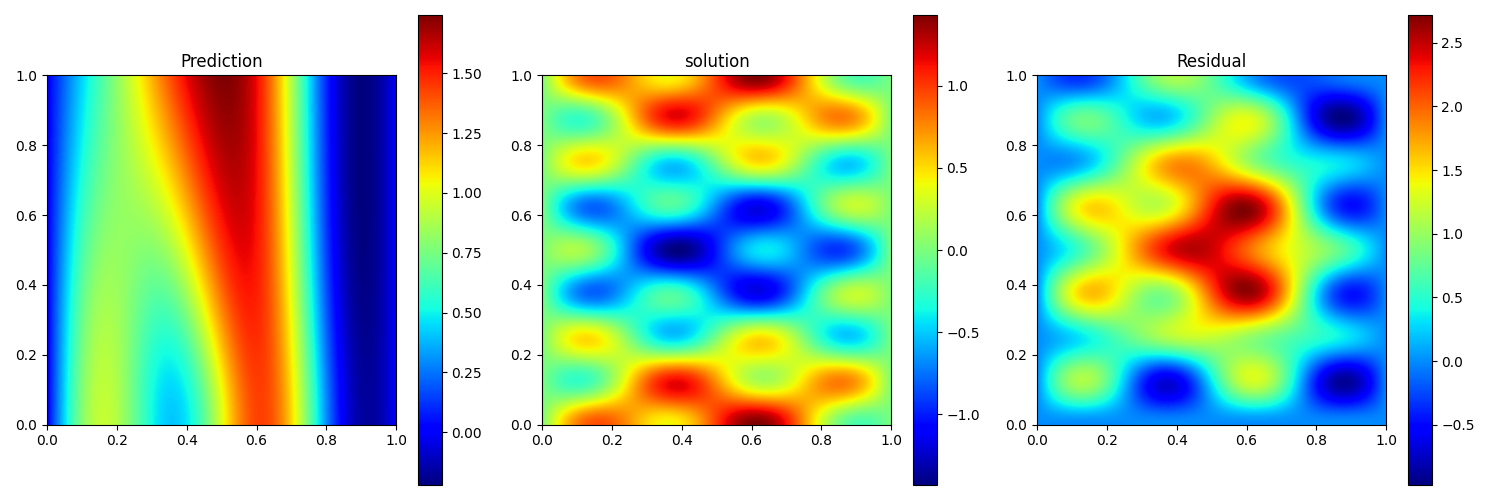
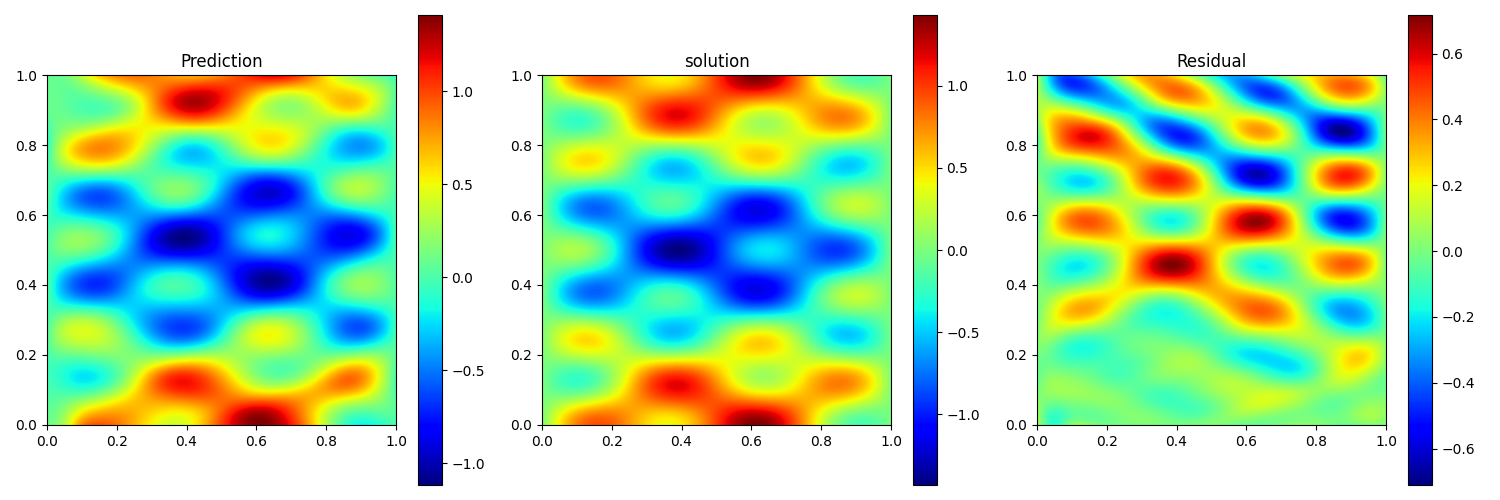
Wave似乎使用了新边界后效果变差了

diff --git a/Benchmark/Wave/test.py b/Benchmark/Wave/test.py
@@ -23,8 +23,11 @@ def u(x, t):
 # When VPINN.laplace is used, you are expected to wrap the monomial with VPINN.LAPLACE_TERM() to distinguish
 # VPINN.LAPLACE_TERM can only contain a monomial of VPINN.laplace, polynomial is not allowed
 
-def pde(x, t, u):
+def pde(x, t, u):    
     return VPINN.gradients(u, t, 2) - 4 * VPINN.gradients(u, x, 2)
+
+# def pde2(x, t, u):    
+    # return VPINN.gradients(u, t, 1)
 
 # this pde doesn't use the green theorem to simplify the equation
 # def pde(x, y, u):    
@@ -32,7 +35,7 @@ def pde(x, t, u):
 
 #############################################################################################
 # boundary condition
-def bc1(boundary_num):
+def bc(boundary_num):
     xs = []
     ys = []
     x1, y1, x2, y2 = (0, 0, 1, 1)
@@ -55,22 +58,14 @@ def bc1(boundary_num):
     boundary_us = u(boundary_xs, boundary_ys)
     return (boundary_xs, boundary_ys, boundary_us)
 
-def bc2(boundary_num):
-    x1, y1, x2, y2 = (0, 0, 1, 1)
-    x = torch.linspace(x1, x2, boundary_num)
-    y = torch.zeros_like(x)
-    u = torch.zeros_like(x)
-    operator = lambda x, y, u: VPINN.gradients(u, y, 1)
-    return (x, y, u, operator)
-
 #############################################################################################
 # train the model
 device = 'cpu'
-vpinn = VPINN([2, 20, 20, 20, 1], pde, bc1(100),area=[0, 1, 0, 1], Q=10, grid_num=16, test_fcn_num=5, 
-            device=device, load=None)
+vpinn = VPINN([2, 10, 10, 10, 1], pde, bc(80), area=[0, 1, 0, 1], Q=10, grid_num=8, test_fcn_num=5, 
+            device=device, load='Wave_std.pth')
 
 
-net = vpinn.train("Wave", epoch_num=10000, coef=0.1)
+net = vpinn.train("Wave", epoch_num=100, coef=1)
 
 #############################################################################################
 # plot and verify
@@ -79,7 +74,6 @@ xx, yy = torch.meshgrid(xc, xc, indexing='ij')
 xx = xx.reshape(-1, 1)
 yy = yy.reshape(-1, 1)
 xy = torch.cat([xx, yy], dim=1)
-net.cpu()
 prediction = net(xy)
 res = prediction - u(xx, yy)
 prediction = torch.reshape(prediction, (500, 500))

diff --git a/Benchmark/src/VPINN3d.py b/Benchmark/src/VPINN3d.py
@@ -100,7 +100,7 @@ class VPINN:
     def __extract_laplace_term(self, func, laplace_term):
         @functools.wraps(func)
         def wrapper(*args, **kwargs):
-            return eval(laplace_term.replace('VPINN.laplace(x, y, u)', 'quad_integral2d.integral(self.Laplace)'), globals(), {'self': self})
+            return eval(laplace_term.replace('VPINN.laplace(x, y, u)', 'quad_integral3d.integral(self.Laplace)'), globals(), {'self': self})
         return wrapper
 
     # just serve as a placeholder
@@ -138,9 +138,9 @@ class VPINN:
         return -result
 
     def lhsWrapper(self):
-        u = self.net(torch.cat([self.grid_xs, self.grid_ys], dim=1))
+        u = self.net(torch.cat([self.grid_xs, self.grid_ys, self.grid_zs], dim=1))
         
-        lhs = self.pde(self.grid_xs, self.grid_ys, u)
+        lhs = self.pde(self.grid_xs, self.grid_ys, self.grid_zs, u)
         
         result = torch.einsum('mc,nc->mnc', \
             lhs.view(self.grid_num ** 2, self.Q ** 2), self.test_fcn0.view(self.test_fcn_num ** 2, self.Q ** 2))
